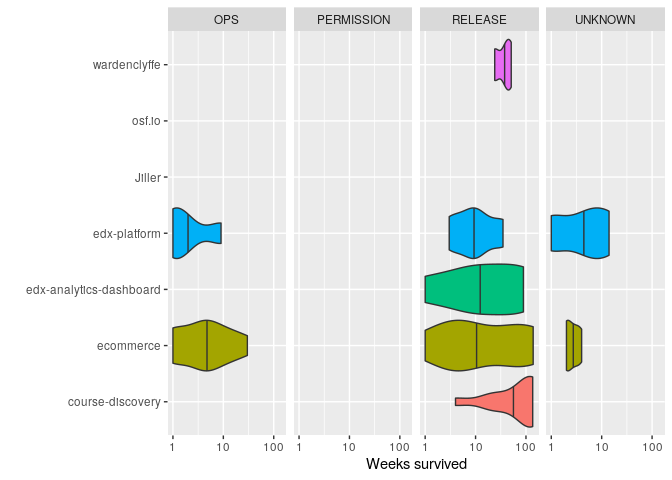
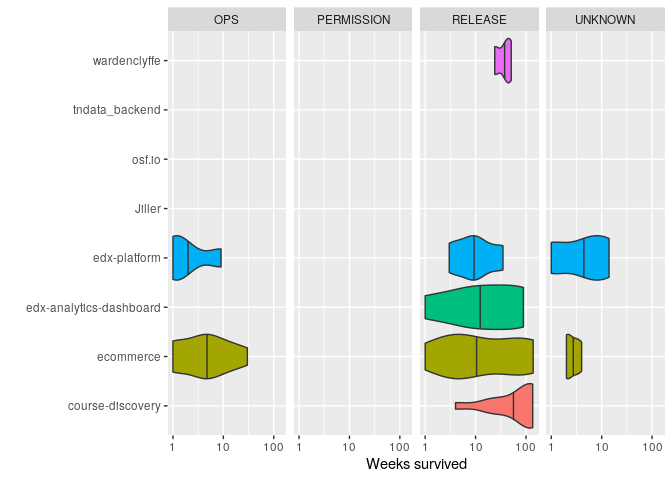
Add tndata_backend categories

diff --git a/extraction/R/categories.md b/extraction/R/categories.md
@@ -11,7 +11,7 @@ data %>%
       legend.position = "none"
     ) +
     coord_flip() +
-    facet_grid(rows = vars(all_routers_removed)) +
+    facet_grid(cols = vars(all_routers_removed)) +
     scale_y_log10() +
     xlab("") +
     ylab("Weeks survived")
